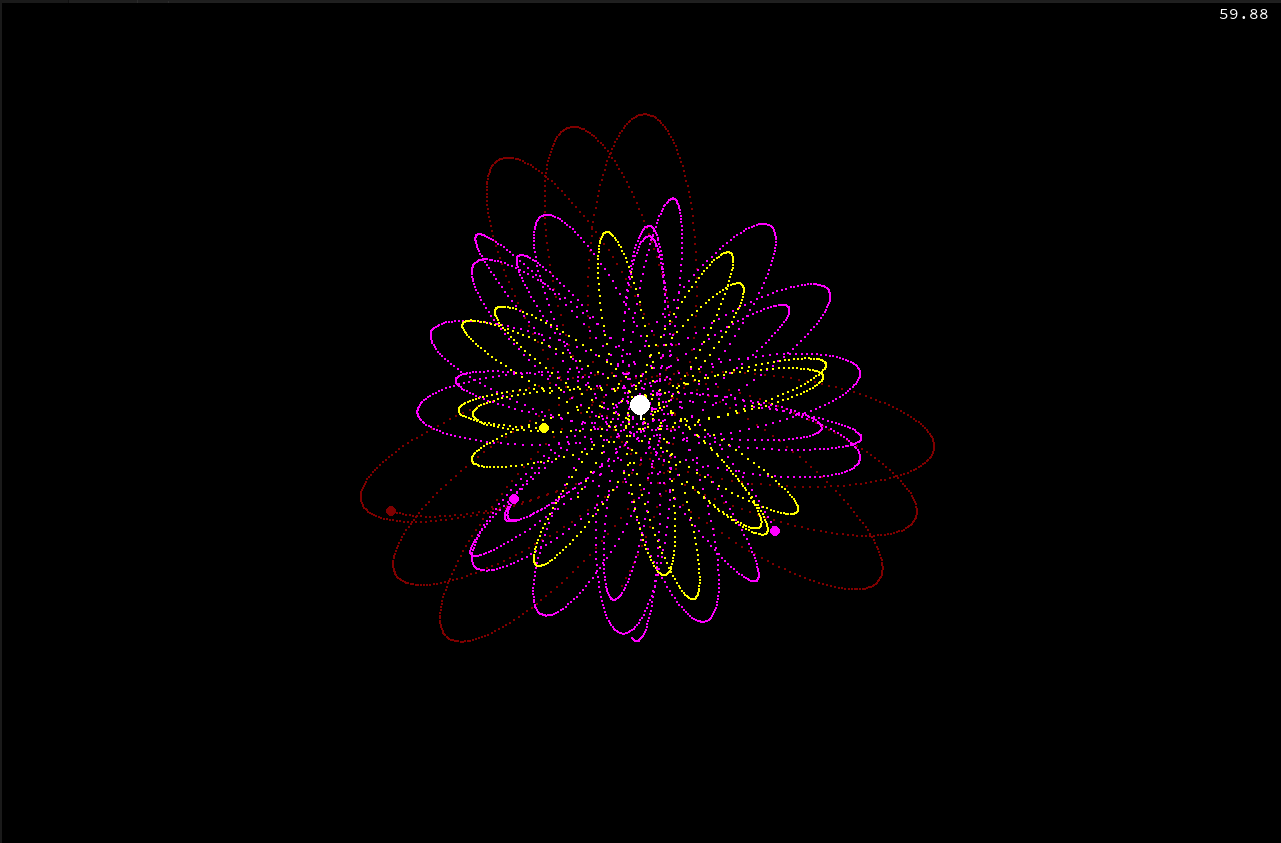
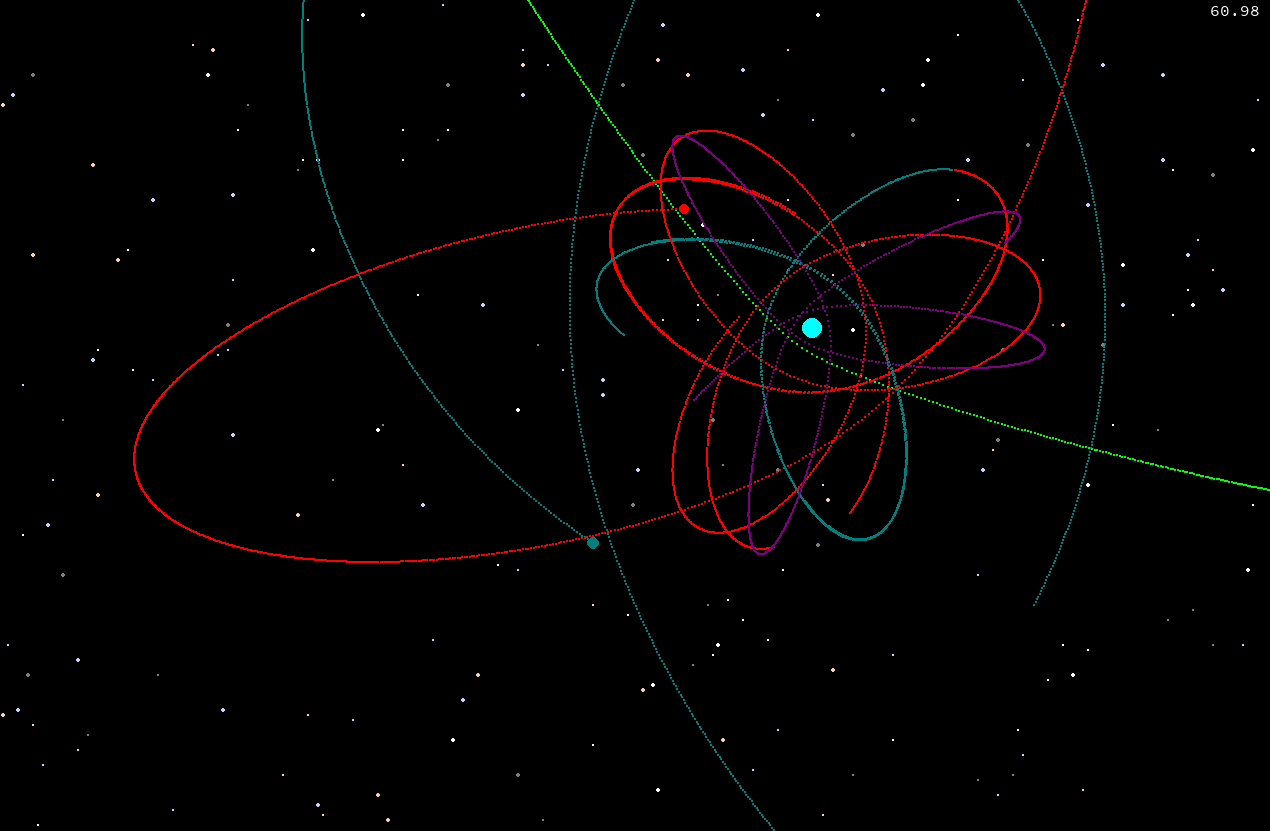
background stars

diff --git a/gravity.py b/gravity.py
@@ -1,4 +1,5 @@
 from __future__ import annotations
+from math import prod
 import sys
 import pygame
 import time
@@ -6,13 +7,16 @@ import random
 
 
 class Body:
-    def __init__(self, x, y, mass, radius, v) -> None:
+    def __init__(self, x, y, mass, radius, v, color=None) -> None:
         self.x = x
         self.y = y
         self.v = v
         self.m = mass
         self.r = radius
-        self.color = random.choice(colors)
+        if not color:
+            self.color = random.choice(colors)
+        else:
+            self.color = color
         self.trail = []
 
     def update(self, body: Body):
@@ -57,6 +61,22 @@ def init_bodies():
     return bdis
 
 
+def init_stars(n=200):
+    s = [1, 1.5, 2, 2.5]
+    maxs = int(max(s) * 2)
+    from itertools import product
+    strs = []
+    star_colors = [(127, 127, 127), (255, 255, 255),
+                   (255, 207, 181), (199, 210, 255)]
+    xrange = range(maxs, width - maxs, maxs)
+    yrange = range(maxs, height - maxs, maxs)
+    positions = list(product(xrange, yrange))
+    random.shuffle(positions)
+    strs = [Body(*positions[i], 0, random.choice(s), [0, 0],
+                 random.choice(star_colors)) for i in range(n)]
+    return strs
+
+
 def init_font(font=None):
     if not font:
         font = random.choice(pygame.font.get_fonts())
@@ -72,6 +92,9 @@ def process_textin():
         elif textin[0][1].lower() == 't':
             global show_trails
             show_trails = not show_trails
+        elif textin[0][1].lower() == 'f':
+            global myfont, myfontsmall
+            myfont, myfontsmall, _ = init_font()
         elif textin[0][1].lower() == 'h':
             print(help)
         else:
@@ -127,7 +150,7 @@ def process_textin():
         else:
             status = [time.time(), red, 'ValueError2']
     if not status:
-        status = [time.time(), white, f">{''.join([x[1] for x in textin])}"]
+        status = [time.time(), white, f" >{''.join([x[1] for x in textin])}"]
 
     textin.clear()
 
@@ -152,6 +175,7 @@ colors += [(x[0] // 2, x[1] // 2, x[2] // 2) for x in colors]
 
 pygame.init()
 pygame.font.init()
+random.seed(time.time())
 myfont, myfontsmall, _ = init_font('sourcecodepro')
 clock = pygame.time.Clock()
 
@@ -164,6 +188,7 @@ red = 255, 0, 0
 screen = pygame.display.set_mode(size, pygame.NOFRAME)
 selected = []
 bodies = init_bodies()
+stars = init_stars()
 textin = []
 status = []
 help = '\n    '.join(['commands:', 'global:', *('\n    '.join(['', 'h - help', 'g{number} - multiply gravitational constant G by number', 't{number} - set length of trail', 'i{number} - set number of iterations per tick',
@@ -233,6 +258,9 @@ while 1:
     iterations(ITERATIONS)
 
     screen.fill(black)
+
+    for star in stars:
+        pygame.draw.circle(screen, star.color, (star.x, star.y), star.r)
 
     for body in bodies:
         pygame.draw.circle(screen, body.color, (body.x, body.y), body.r)
